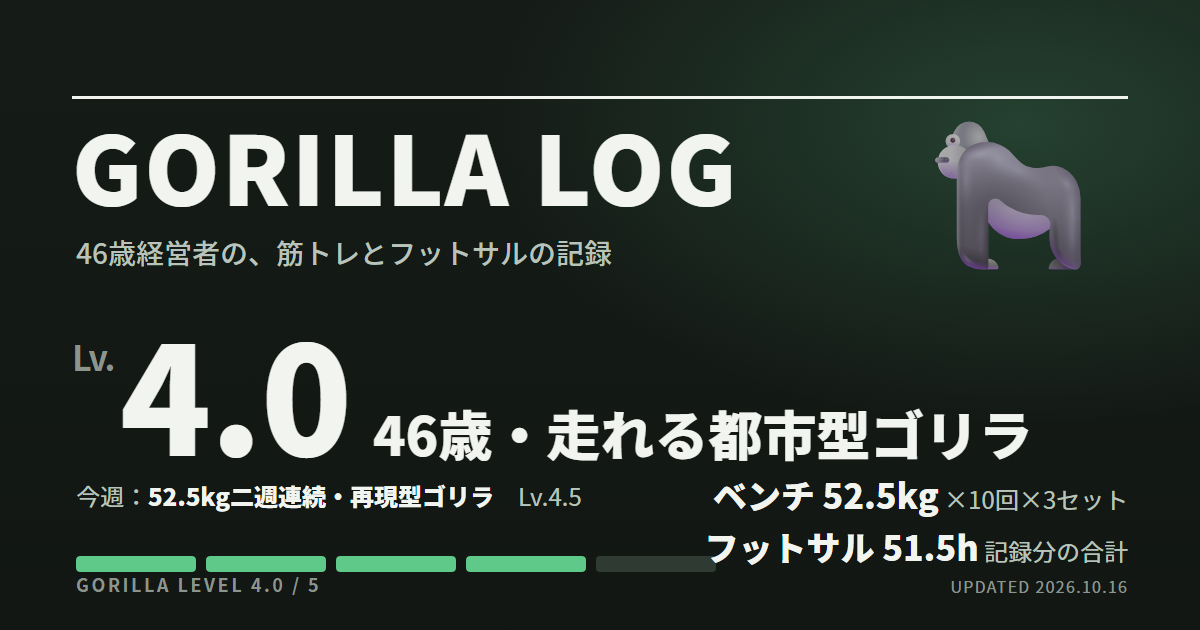
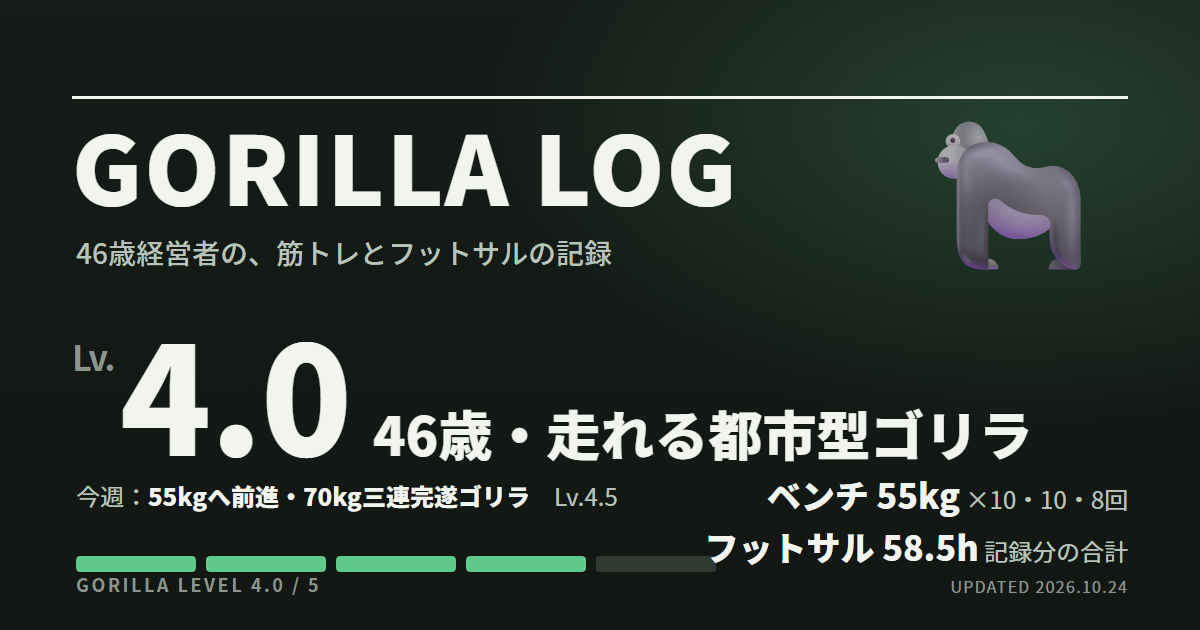
week of 2026-10-24: R57〜R61 を追加
- 10/18 フットサル4h（プレー少なめ）、10/19・10/21 自宅16セット、10/22 ジム（ベンチ55kg 10・10・8、スクワット70kg×10×3）、10/24 フットサル3h
- 週判定「55kgへ前進・70kg三連完遂ゴリラ Lv.4.5」と今週のひと言
- 基準点カードの70kgに関する注記を更新

diff --git a/data/records.js b/data/records.js
@@ -34,7 +34,7 @@ window.GORILLA_DATA = {
   meta: {
     siteName: "GORILLA LOG",
     tagline: "46歳経営者の、筋トレとフットサルの記録",
-    updated: "2026-10-16",
+    updated: "2026-10-24",
     since: "2025-09",
     overallLevel: 4.0,
     overallTitle: "46歳・走れる都市型ゴリラ",
@@ -496,6 +496,46 @@ window.GORILLA_DATA = {
       exercises: ["ダンベルプレス 10kg×15・15・20", "ワンハンドローイング 10kg×30×3", "ブルガリアンスクワット 自重×20×3", "ダンベルフライ 10kg×12・12・20", "フロントレイズ 10kg×10×2", "フレンチプレス 10kg×20×2"],
       source: "画像で確認",
     },
+    {
+      id: "R57", date: "2026-10-18", type: "futsal",
+      title: "フットサル4時間（プレー時間は少なめ）", hours: 4, level: 3.0, provisional: true,
+      nickname: "出場量を分けて記録するコートゴリラ",
+      note: "参加枠は4時間だが「プレイ時間は少なめ」と本人補足。10月11日と同じ評価帯とし、滞在時間の長さだけで点数を上げない。4時間走り続けた記録とは扱わない。",
+      source: "10月24日の本人報告",
+    },
+    {
+      id: "R58", date: "2026-10-19", type: "home",
+      title: "自宅トレ 6種目・16セット（プレス計50回）", level: 3.5, sets: 16,
+      nickname: "50回プレスを継続する自宅ゴリラ",
+      note: "10月16日と全6種目の重量・回数・セット数が一致。新しい増量ではなく、同じメニューを再び行った継続記録。前日はプレー少なめのフットサル。",
+      exercises: ["ダンベルプレス 10kg×15・15・20", "ワンハンドローイング 10kg×30×3", "ブルガリアンスクワット 自重×20×3", "ダンベルフライ 10kg×12・12・20", "フロントレイズ 10kg×10×2", "フレンチプレス 10kg×20×2"],
+      source: "画像で確認",
+    },
+    {
+      id: "R59", date: "2026-10-21", type: "home",
+      title: "自宅トレ 6種目・16セット（19日と同じ内容）", level: 3.5, sets: 16,
+      nickname: "定番16セットをそろえる自宅ゴリラ",
+      note: "19日と同じ内容を別日に実施。翌日がジムのため、胸・脚の対象部位が重なる連日の筋トレになった。翌日に増量できた結果だけで、この配置が最適だったとは判断しない。",
+      exercises: ["ダンベルプレス 10kg×15・15・20", "ワンハンドローイング 10kg×30×3", "ブルガリアンスクワット 自重×20×3", "ダンベルフライ 10kg×12・12・20", "フロントレイズ 10kg×10×2", "フレンチプレス 10kg×20×2"],
+      source: "画像で確認",
+    },
+    {
+      id: "R60", date: "2026-10-22", type: "gym",
+      title: "ベンチ55kg 10・10・8／スクワット70kg×10×3", level: 4.5,
+      nickname: "55kg挑戦・70kg三連完遂ゴリラ",
+      note: "「身体や足の疲労があまりなかったので、トレーナーが重量をあげたみたいです」。ベンチは52.5kgから55kgへ増やして計28回（10×3はまだ未確認）。スクワットは65kgから70kgへ増やして10回×3セットを維持。2025年にも70kgの保存メモがあるため「過去最高」とは呼ばない。",
+      bench: { w: 55, reps: [10, 10, 8], full: false, verified: true },
+      squat: { w: 70, reps: [10, 10, 10], verified: true },
+      exercises: ["上体起こし 自重×10×3", "ベンチプレス 20×10, 30×5, 55×10・10・8, 37.5×10", "ダンベルフライ 12kg×10×3", "バーベルスクワット 20×10, 40×5, 70×10×3"],
+      source: "画像で確認",
+    },
+    {
+      id: "R61", date: "2026-10-24", type: "futsal",
+      title: "フットサル3時間", hours: 3, level: 3.5, provisional: true,
+      nickname: "土曜3時間のコートゴリラ",
+      note: "18日に続く2回目の球技参加。18日の「プレー少なめ」という補足は流用しない。22日に脚の重量を増やした後の参加だが、十分な回復を認定する記録ではない。",
+      source: "10月24日の本人報告",
+    },
   ],
 
   /* 週単位・期間単位のゴリラ判定（新しいものを末尾に追加）。comment は「今週のひと言」（任意） */
@@ -516,6 +556,8 @@ window.GORILLA_DATA = {
       comment: "52.5kgは、「まず2セットできた重さ」から「3セットそろえた重さ」になった。しかも現場からは「まだ余力ありますね」。ベンチは一歩前へ、脚はその日に合わせて。自宅にも休みを挟めれば、長期運用ゴリラはさらに手堅い。" },
     { range: "10月10〜16日", combo: "自宅2回＋ジム1回＋フットサル1回・3時間（プレー少なめ）", level: 4.5, name: "52.5kg二週連続・再現型ゴリラ", note: "運動4日・4セッション。準備除外48セット。ベンチ52.5kg×10×3を2回連続、スクワット65kgへ復帰。撮影の約1万歩は12日の背景。疲労の我慢は加点しない",
       comment: "52.5kgは「一度そろった重量」から「次の週にもそろえられた重量」へ。今回は新記録より、再現できたことが収穫。根性は昭和でも、負荷の調整はその日の身体と相談して決める。" },
+    { range: "10月18〜24日（報告分）", combo: "自宅2回＋ジム1回＋フットサル2回・参加枠計7時間（18日はプレー少なめ）", level: 4.5, name: "55kgへ前進・70kg三連完遂ゴリラ", note: "運動5日・5セッション。固定週10/17〜23は4日・準備除外45セット（前週48）。ベンチ55kgで計28回、スクワット70kg×10×3。総セット数は減ったが主種目の重量は上がった",
+      comment: "46歳のゴリラ、ベンチは55kgへ。脚は70kgを3セット。今回の収穫は、根性を上乗せしたことより、調子を見ながら重量を一段上げたこと。次も、その日の身体と相談していこう。" },
   ],
 
   /* 記録全体にかかる注記（新しいものを末尾に追加）。全記録の見出しの下に表示される */

diff --git a/app.js b/app.js
@@ -303,7 +303,7 @@
   const b = D.baseline;
   $("#baselineCard").innerHTML = `<div class="card-head"><h3>${esc(b.label)}</h3><span class="sub">時系列グラフには載せない基準点</span></div>
     <dl class="facts" style="margin-top:8px"><dt>ベンチプレス</dt><dd>${esc(b.bench)}</dd><dt>スクワット</dt><dd>${esc(b.squat)}</dd><dt>デッドリフト</dt><dd>${esc(b.deadlift)}</dd><dt>当時のレベル</dt><dd>Lv.${lv(b.level)}（暫定）・${esc(b.nickname)}</dd></dl>
-    <p style="font-size:13px;color:var(--ink-2);margin-top:10px">同じ日に3種目すべてを実施したと確認できる記録ではないため、「1回のジム」とは数えない。2026年9月のスクワット65kg×10×3を「過去最高」とは呼ばないのは、この70kgの保存メモがあるため。</p>`;
+    <p style="font-size:13px;color:var(--ink-2);margin-top:10px">同じ日に3種目すべてを実施したと確認できる記録ではないため、「1回のジム」とは数えない。2026年10月22日にスクワット70kg×10×3を画像で確認したが、この2025年の70kgは回数・セット数が不明なため、「生涯初の70kg」「過去最高」とは呼ばない。</p>`;
 
   /* ---------- share（週ごとに別URLにして、SNS のカードキャッシュを避ける） ---------- */
   (function share() {

diff --git a/DESIGN_AND_OPERATIONS.md b/DESIGN_AND_OPERATIONS.md
@@ -313,6 +313,7 @@ git push
 |---|---|
 | 2026-09-11 | 初版。33項目のアーカイブを構造化し、ダッシュボード・OGP・GA4ローダーを実装。GitHub Pages で公開 |
 | 2026-09-18 | R34〜R37 を追加（37項目）。休養タイプ `rest` を導入し採点外として表示。週判定に「今週のひと言」を追加。OGP画像のフットサル合計を37.5hに更新 |
+| 2026-10-24 | R57〜R61 を追加（61項目）。ベンチ55kg（10・10・8）、スクワット70kg×10×3。構造変更なし |
 | 2026-10-16 | R53〜R56 を追加（56項目）。ベンチ52.5kg×10×3を2週連続、スクワット65kg復帰。10月14日に46歳：年齢・タグライン・総合称号・OGP説明を更新し、`notices` に誕生日の注記を追加 |
 | 2026-10-10 | R48〜R52 を追加（52項目）。ベンチ52.5kg×10×3達成（ジム単日で初の Lv.4.5）。構造変更なし |
 | 2026-10-02 | R43〜R47 を追加（47項目）。ベンチ52.5kg、週判定は初の Lv.4.5。自宅ダンベルの重量表記訂正（7.5kg→シャフト込み10kg）を `notices` として新設し、過去ログは据え置き。ベンチ・スクワットのグラフ縦軸を自動拡張に変更 |
